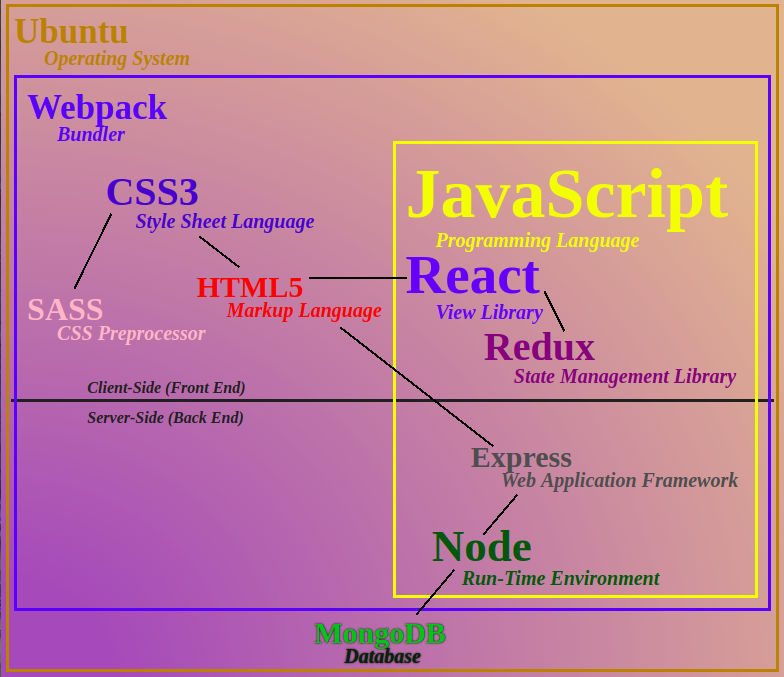
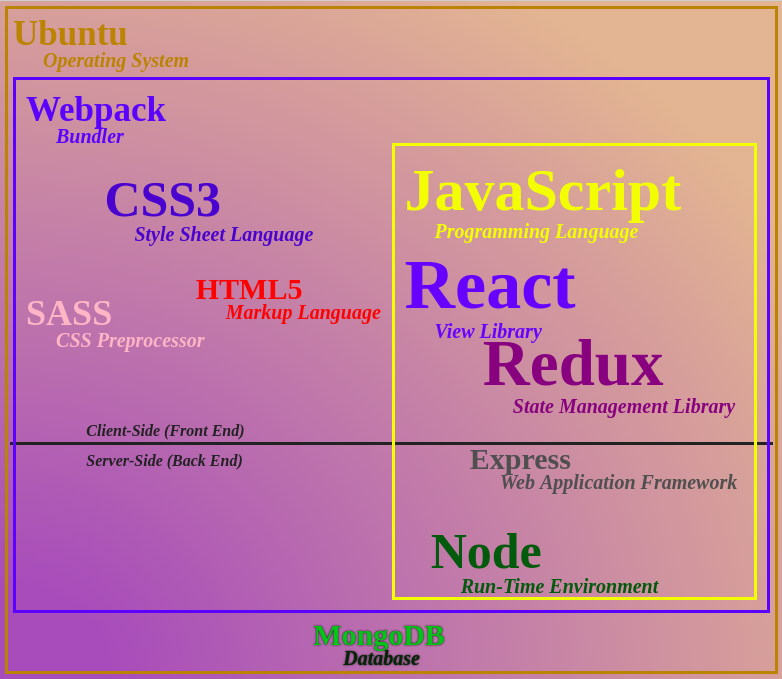
updated skills and about page

diff --git a/src/components/about/AboutIntro.js b/src/components/about/AboutIntro.js
@@ -32,15 +32,15 @@ export default class AboutIntro extends React.Component {
         <div className = "about__pane">
           {/* greeting */}
           <div className = "about__item__text center">
-            <p className = "drop heading">I love what I do.</p>
-            <p className = "sub-heading drop align-left">It gives me a purpose and a constant challenge, and I'm growing all the time.</p>
+            <p className = "drop heading">I really love making apps.</p>
+            <p className = "sub-heading drop align-left">It gives me a constant challenge, and I'm growing all the time.</p>
 
             <br />
             <div className = "horizontal-line"></div>
             <br />
 
             <p className = "regular-text align-left">
-              I create <b>complete apps and websites.</b> I enjoy the design aspect of software development because making things look good and work seamlessly is very rewarding to me. But I also enjoy the complex behind-the-scenes logic that makes everything function - I am probably happiest when I am problem solving. This is why I decided to become a <b>full-stack developer</b> instead of choosing one area or the other.</p>
+              I create <b>web apps</b>, start to finish. I like doing everything involved - I enjoy the design aspect of software development because making things look good and work seamlessly is very rewarding to me, and I also enjoy the complex behind-the-scenes logic that makes everything function. I am probably happiest when I am solving a problem. This is why I decided to become a <b>full-stack developer</b> instead of choosing to be more specialized.</p>
           </div>
 
           {/* Skills */}
@@ -56,9 +56,9 @@ export default class AboutIntro extends React.Component {
               >
                  Here
               </span>
-              (last updated May 2018).
-              I work primarily with the <b>MERN stack</b> (MongoDB, ExpressJS, ReactJS, NodeJS). MongoDB is a database, and Express, React and Node are JavaScript frameworks, so most of my work is done in JavaScript.<br />
-              I am also quite fond of CSS, the quirky language that powers the web's visual styles, and SASS, a CSS extension which enables me to write simpler and more versatile CSS code.<br />
+              (last updated July 2018).
+              I work primarily with the <b>MERN stack</b> (MongoDB, ExpressJS, ReactJS, NodeJS). MongoDB is database software, and Express, React and Node are JavaScript frameworks, so most of my work is done in JavaScript.<br />
+              I am also fond of CSS, the quirky language that powers the web's visual styles, and SASS, an awesome CSS extension which enables me to write simpler and more versatile CSS code.<br />
               I have used a handful of other technologies as well, such as PHP, Java, and SQL, but JavaScript is my main workshop for now, and it contains enough tools I haven't explored yet to keep me busy for a very long time!<br />
             </p>
           </div>
@@ -71,11 +71,9 @@ export default class AboutIntro extends React.Component {
             <p className = "regular-text align-left">
               <b>Clarity</b> is huge. In high school, I used to write my code as cryptically as possible. The little kid in me figured that since it was code, it needed to be secret code. My teacher, who had to try and figure out what I as doing, would have fired me if he could. I've learned since then that it is always in my best interest to write my code as clearly as I can, mostly from having to go back and deal with it myself. When it's easy to read it becomes so much easier to maintain and saves me hours of needless work.<br />
 
-              I've found <b>debugging</b> to be fundamental as well. There's nothing elegant about it - it's just a case of figuring out how to fix your mistakes until you start to recognize them and get faster at it. It's probably the most frustrating part of being a developer, and it's definitely where I've learned the most. Overcoming what frustrates you makes you grow. I've never made a bug that I didn't fix, just because I refuse to give up. It really helps me to remember that the computer is just doing what I told it to do. If there's an error, it's just because I didn't tell it to do what I thought I did.<br />
+              Another skill that I've found essential is <b>figuring out what needs to be done and doing it</b>. I am a largely self-taught developer, whih has meant sailing my own ship from the very start. It's very empowering to set yourself a big task, and then work at it until the day you look back and realize you've accomplished it, and nobody else did it for you - even though it looked impossible when you started. Then you start to realize you can do anything you want to. The only thing you have to do is never give up.<br />
 
-              Another skill that I've found essential is <b>figuring out what needs to be done and doing it</b>. I am a largely self-taught developer; that meant sailing my own ship from the very start. It's very empowering to set yourself a big task, and then work at it until the day you look back and realize you've accomplished it, and nobody else did it for you - even though it looked impossible when you started. Then you start to realize you can do anything you want to. The only thing you have to do is never give up.<br />
-
-              The last thing to mention is <b>learning</b>. I've heard that a generation of technology in software development is roughly 2.5 years. By then, pretty much everything I use today will be unrecognizeable. So if I decided to stop learning now, in 2.5 years or less my skills would be obsolete. This is invigorating to me - I have gotten bored at every job I've ever had, except this one. There is always something new to learn and I can always keep growing.
+              The last and most important thing to mention is <b>learning</b>. I love to learn, and this is definitely the right industry for that. I've heard that a generation of technology in software development is roughly 2.5 years - so if I decide to stop learning now, in 2.5 years or less my skills will be obsolete. This is invigorating to me - I have gotten bored at every job I've ever had, and I love that in software development there is always something new to learn.
             </p>
           </div>
 
@@ -86,7 +84,7 @@ export default class AboutIntro extends React.Component {
             </p>
             <p className = "regular-text align-left">
               I am always most interested in learning technologies that will make me a more effective developer - either by expanding my capabilities, or by allowing me to do something more efficiently. I like to stay as current as possible without getting into untested technology. Generally this means staying up-to-date in the web development community and taking my lead from industry giants like Google and Facebook.<br />
-              Right now the technology that I am most excited to learn about is <b>Progressive Web Applications (PWAs)</b>. PWAs will allow me to create websites that can be used as apps on mobile devices. Most people use their phones more than their computers, and if I am going to build technology that can make a difference in people's lives, I want it to be accessible to as many people as possible.<br />
+              Some of the things that I am most excited to learn about now are <b>Progressive Web Applications (PWAs)</b>, <b>React Native</b>, and expanding my knowledge of Jest. PWAs will allow me to create websites that can be used as apps on mobile devices, and React Native will let me create true mobile apps. Most people use their phones more than their computers, and if I am going to build technology that can make a difference in people's lives, I want it to be accessible to as many people as possible. Jest is different - it is a framework for writing tests, which allow me to be more confident that my code does what I think it does.<br />
 
             </p>
           </div>
@@ -98,7 +96,7 @@ export default class AboutIntro extends React.Component {
             </p>
             <p className = "regular-text align-left">
               <b>I want to create software that can improve the lives of people suffering from mental illnesses - especially teenagers.</b> Many people around me, including myself, suffer from mental illness, and I want so much to help, but most often I'm not in a position where I feel that I can reach out on a personal level. But perhaps I can help people more effectively - and far more of them - through technology.<br />
-              My first goal is to create an app that can connect people who need someone to talk to with people who are willing to listen.
+              My first goal in this area is to create an app that can connect people who need someone to talk to with people who are willing to listen.
             </p>
           </div>
 
@@ -110,7 +108,7 @@ export default class AboutIntro extends React.Component {
             <p className = "regular-text align-left">
               I enjoyed studying computer science in high school, but I decided to pursue a career as an elementary school teacher after my senior year. I learned a lot of valuable skills from it but soon learned that it wasn't going to provide me with the kind of stimulation I need. It took me a decade to rediscover my passion for software development and my matching skill set. In that decade I gained a large amount of experience and an eclectic range of skills. I speak <span className = "red-shadowed">French</span> and <span className = "orange-shadowed">Spanish</span>; I have <span className = "blue-shadowed">taught in three countries</span>; I am well-versed in <span className = "green-shadowed">plant lore</span>; I co-own a <span className = "purple-shadowed">small business</span>; I have worked in
               <span className = "brown-shadowed"> residential construction</span>; and I am a skilled <span className = "silver-shadowed">sword fighter</span>. Though I sometimes feel like a large chunk of my life was spent wandering without a solid direction, I am beginning to see the value in being able to apply such a wide range of life experience to my work.<br />
-              When I am not cheerfully wrestling with CSS, creating React components or setting up database APIs, I love inventing games of any kind, playing ping pong, spending time with my wife and our puppy, and duelling anyone who will stand in front of me with a sword in their hand.
+              When I am not writing responsive CSS styles, creating Redux stores or setting up client-side routing, I love inventing games of any kind, playing ping pong, spending time with my wife and our puppy, and duelling anyone who will stand in front of me with a sword in their hand.
             </p>
           </div>
         </div>

diff --git a/skillsMap/_SkillsMap.scss b/skillsMap/_SkillsMap.scss
@@ -22,7 +22,7 @@
   position: absolute;
   z-index: -1;
   display: block;
-  top: 55vh;
+  top: 61vh;
   height: 0;
   width: 58.5vw;
   left: 1rem;
@@ -86,7 +86,7 @@
 
   span {
     padding-top: -1rem;
-    font-size: 7rem;
+    font-size: 6rem;
   }
 }
 
@@ -102,7 +102,7 @@
   position: absolute;
   top: 25vh;
   left: 8vw;
-  font-size: 4rem;
+  font-size: 5rem;
 
   color: darken(blue, 10%);
 }
@@ -110,7 +110,7 @@
   position: absolute;
   top: 43vh;
   left: 2vw;
-  font-size: 3.2rem;
+  font-size: 3.6rem;
 
   color: pink;
 }
@@ -118,7 +118,7 @@
   position: absolute;
   top: 36vh;
   left: 31vw;
-  font-size: 5.5rem;
+  font-size: 7rem;
 
   color: lighten(blue, 10%);
 }
@@ -126,7 +126,7 @@
   position: absolute;
   top: 48vh;
   left: 37vw;
-  font-size: 4rem;
+  font-size: 6.5rem;
 
   color: purple;
 }
@@ -143,7 +143,7 @@
   position: absolute;
   top: 77vh;
   left: 33vw;
-  font-size: 4.5rem;
+  font-size: 5rem;
 
   color: darken(green, 10%);
 }

diff --git a/src/main.js b/src/main.js
@@ -17,7 +17,7 @@ import Dash from './pages/dash.js';
 import 'normalize.css/normalize.css';
 import './styles/styles.scss';
 
-//import SkillsMap from '../skillsMap/skillsMap';
+// import SkillsMap from '../skillsMap/skillsMap';
 
 //console.log('PATHNAME: ', window.location.pathname);
 
@@ -43,5 +43,5 @@ const WrappedApp = () => (
     <Router />
   </Provider>
 );
-//ReactDOM.render(<SkillsMap />, app);
+// ReactDOM.render(<SkillsMap />, app);
 ReactDOM.render(<WrappedApp />, app);

diff --git a/src/components/apps/AppEntry.js b/src/components/apps/AppEntry.js
@@ -2,7 +2,12 @@ import React from 'react';
 
 export default class AppEntry extends React.Component {
   sendTo(destination) {
-    window.location.pathname = destination;
+
+    if (destination.includes('http')) {
+      window.location.href = destination;
+    } else {
+      window.location.pathname = destination;
+    };
   };
 
   render () {
@@ -20,3 +25,5 @@ export default class AppEntry extends React.Component {
     );
   }
 }
+
+// 162.255.119.158

diff --git a/skillsMap/skillsMap.js b/skillsMap/skillsMap.js
@@ -1,5 +1,7 @@
 import React from 'react';
 
+import './_SkillsMap.scss';
+
 export default () => (
   <div id = "skillsMap">
   <div id = "skillsMap__background" />

diff --git a/src/styles/components/about/_About.scss b/src/styles/components/about/_About.scss
@@ -64,7 +64,7 @@
   line-height: 1.5;
 }
 b {
-  text-shadow: 0 0 1px lighten($dark, 10%);
+  color: black;
 }
 .purple {
   color: purple;
